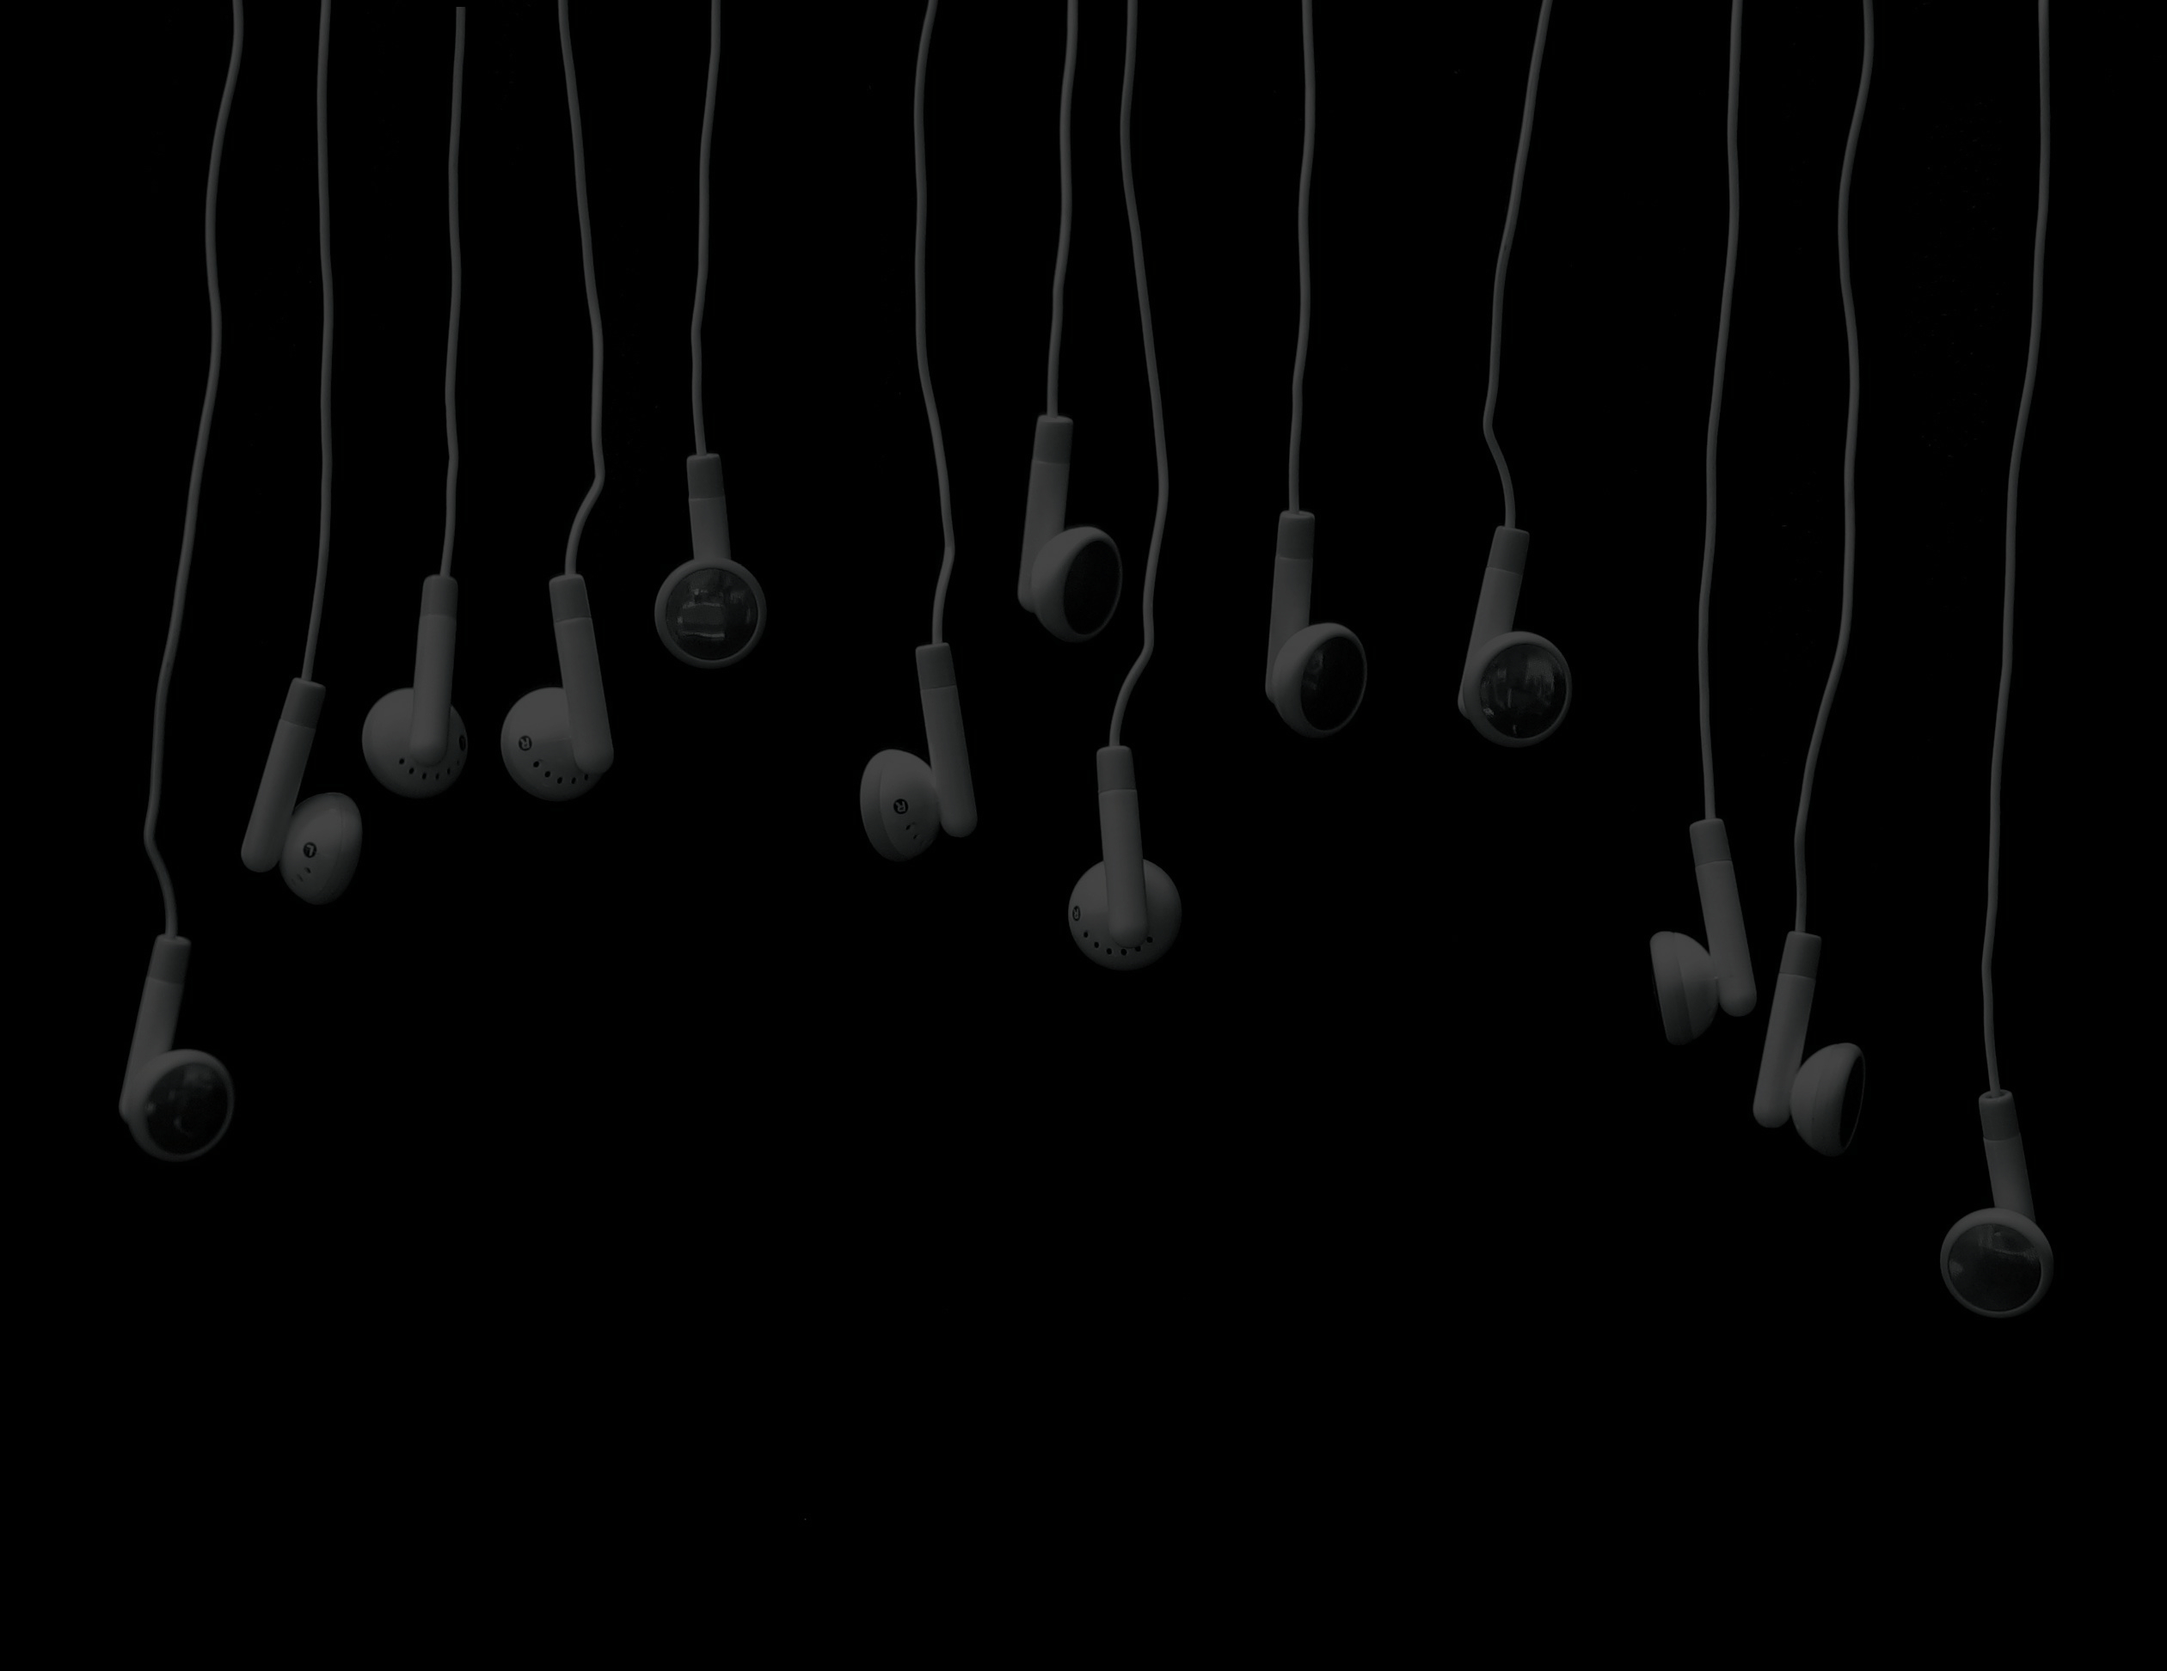
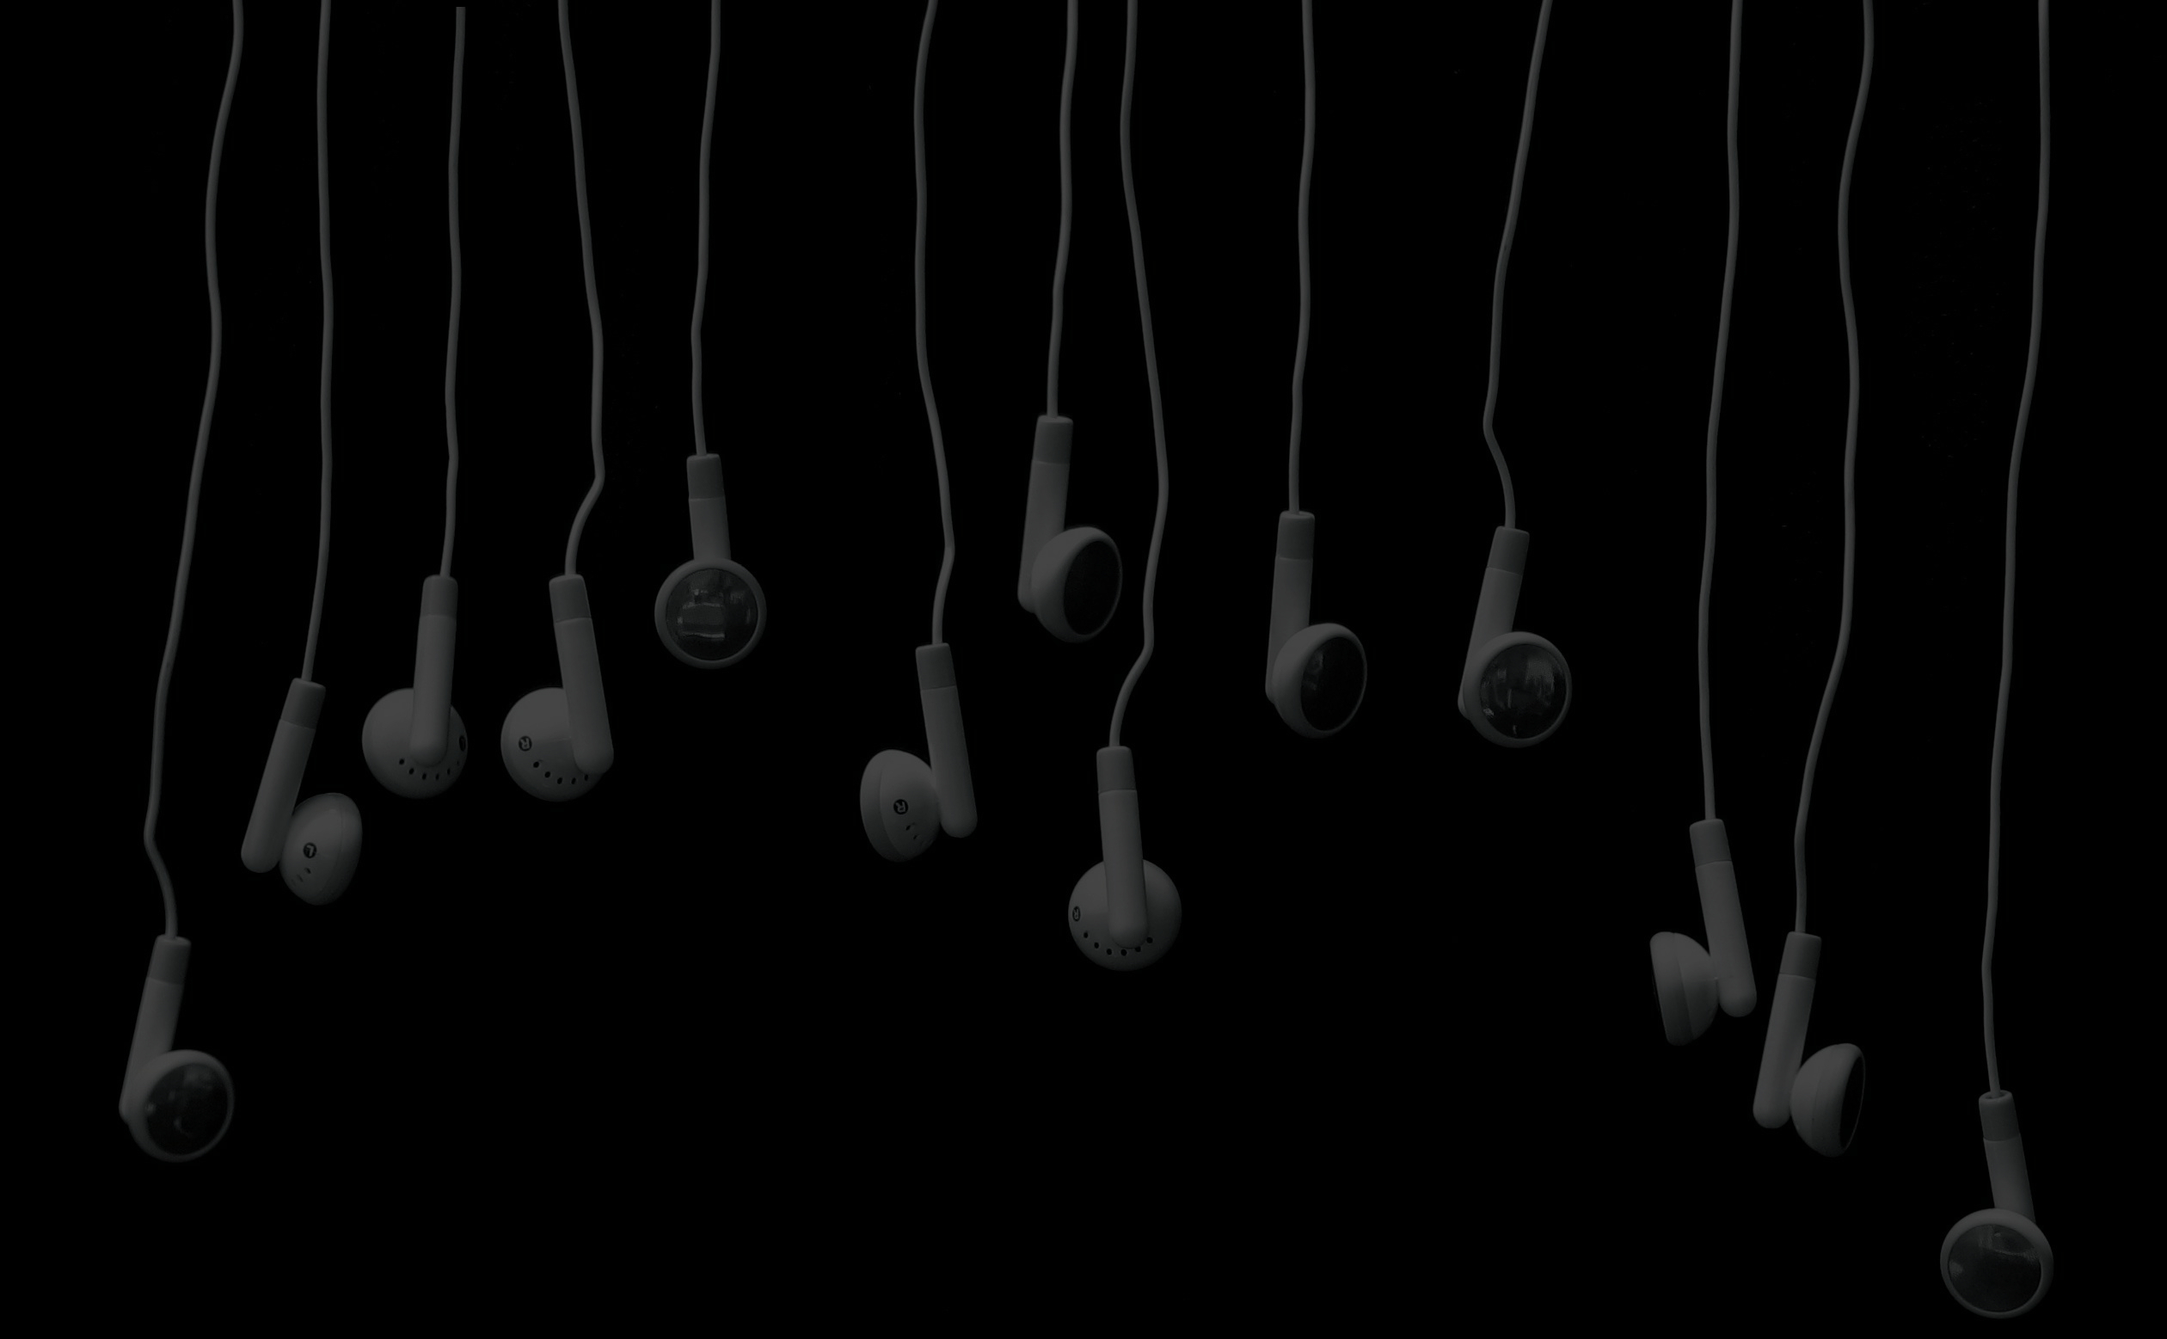
header background defined

diff --git a/client/app/styles/_main.sass b/client/app/styles/_main.sass
@@ -6,11 +6,12 @@ header
     background-image: url(/images/debian_radio.jpg)
     background-repeat: no-repeat
     background-size: 90%
-    background-position: center -50%
+    background-position: center 60%
+    +outer-container()
     +media(max-width 769px)
         background-size: 100%
     div#logo
-        margin: 2% 0
+        margin: 3% 0
         +span-columns(1.5)
         +shift(5.25)
         +media(max-width 769px)
